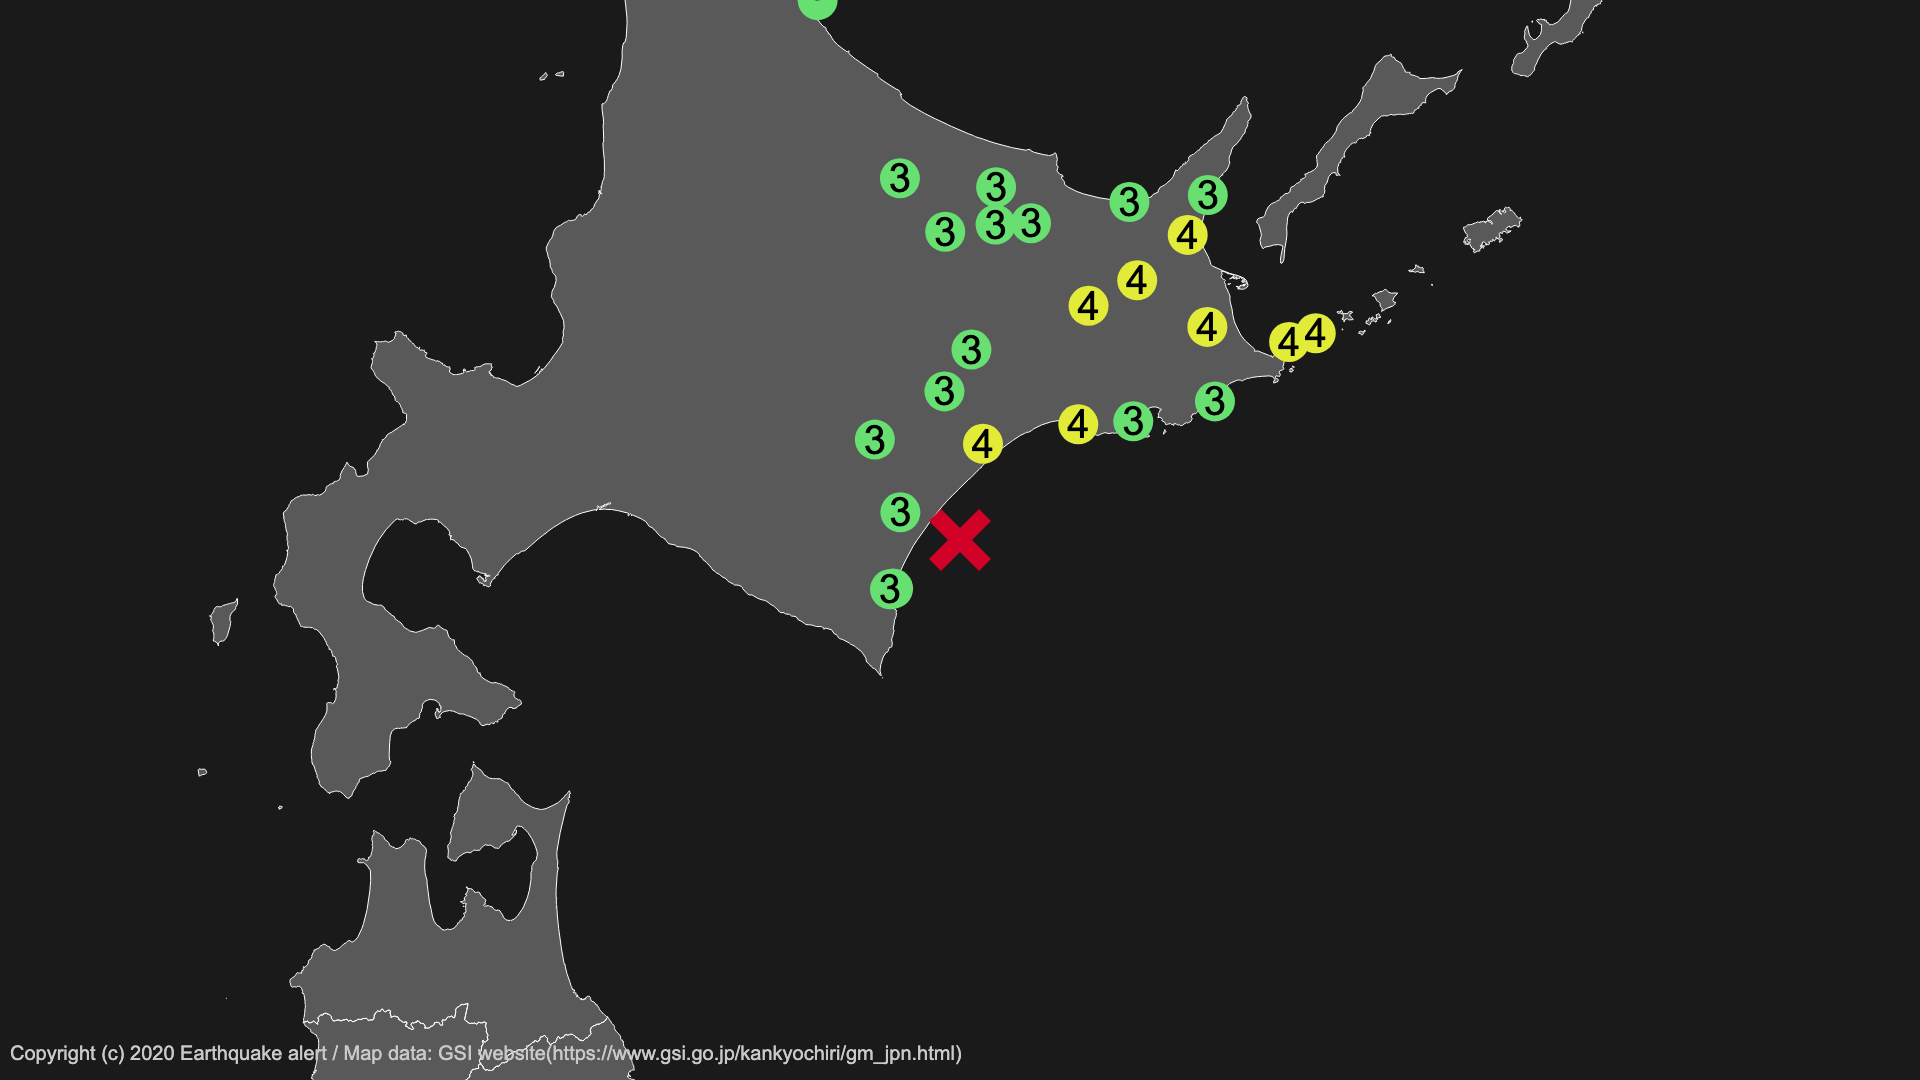
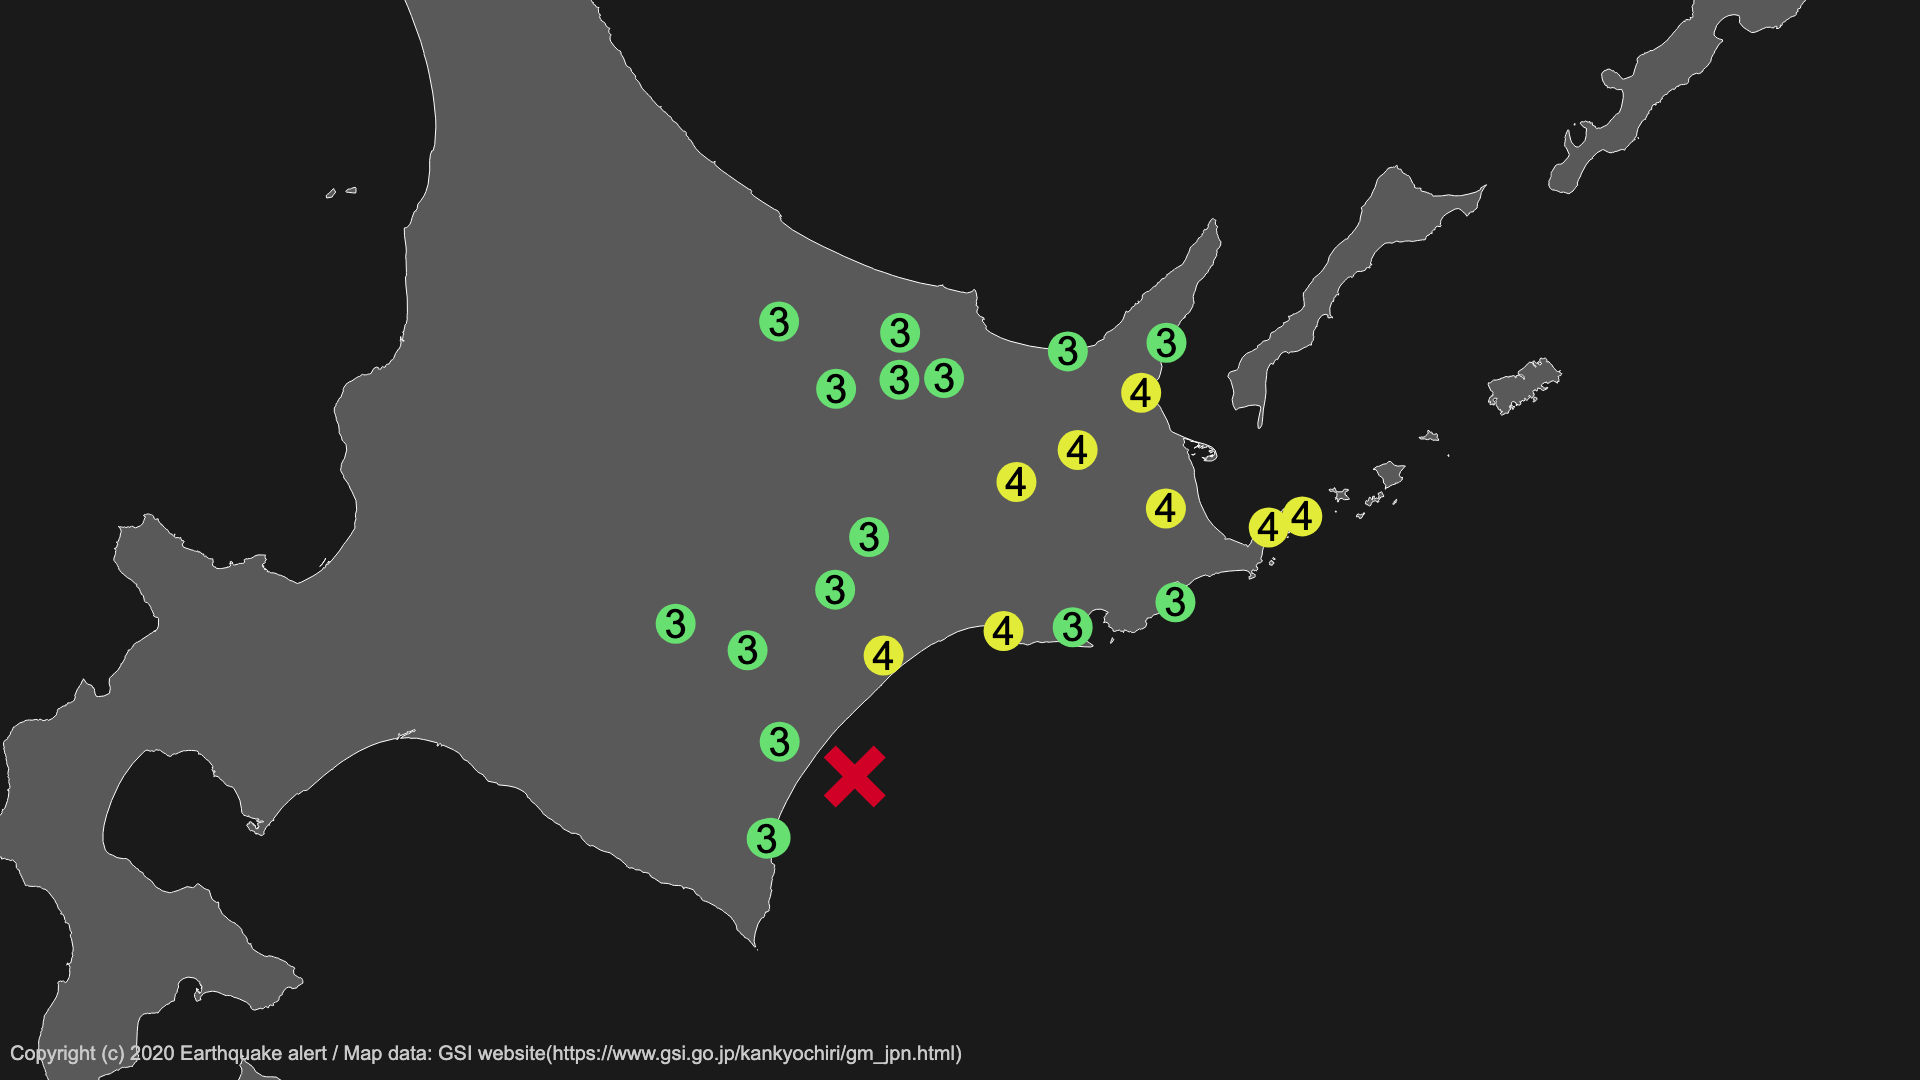
震度の分布により描画の中心と拡大率を変更するように変更

Changed region(s): [[0.0, 0.0, 0.9375, 1.0], [0.7812, 0.3361, 0.8125, 0.3972], [0.7188, 0.4278, 0.75, 0.4583]]

diff --git a/src/mapping.js b/src/mapping.js
@@ -41,6 +41,25 @@ const copylight = config.copylight;                               // Describe Co
 
 const epicenter = area_info.epicenter;                            // epicenter. [ longitude, latitude ]
 
+var longitude = [epicenter[0], epicenter[0]];                     // [max, min, average]
+var latitude = [epicenter[1], epicenter[1]];                      // [max, min, average]
+var volume = 1;
+
+// --- Calculation of latitude and longitude ---
+var sum_longitude = epicenter[0];
+var sum_latitude = epicenter[1];
+for (area_key in area_info.areas) {
+    for (element of area_info.areas[area_key]) {
+        sum_longitude += element[0];
+        sum_latitude += element[1];
+        longitude = [Math.max(epicenter[0], element[0]), Math.min(epicenter[0], element[0])];
+        latitude = [Math.max(epicenter[1], element[1]), Math.min(epicenter[1], element[1])];
+        volume++;
+    }
+}
+var center = [sum_longitude / volume, sum_latitude / volume];
+var expansion_rate = longitude[0] - longitude[1] + latitude[0] - latitude[1];
+console.log(expansion_rate);
 
 // --- Read geojson(map) file ---
 const q = d3.queue()
@@ -53,9 +72,9 @@ q.awaitAll((err, files) => {
 
     // --- Adjust the drawing position ---
     var aProjection = d3.geoMercator()
-        .center(epicenter)
+        .center(center)
         .translate([width / 2, height / 2])
-        .scale(def_scale);
+        .scale(def_scale + expansion_rate * 1000);
 
     var geoPath = d3.geoPath()
         .projection(aProjection);
